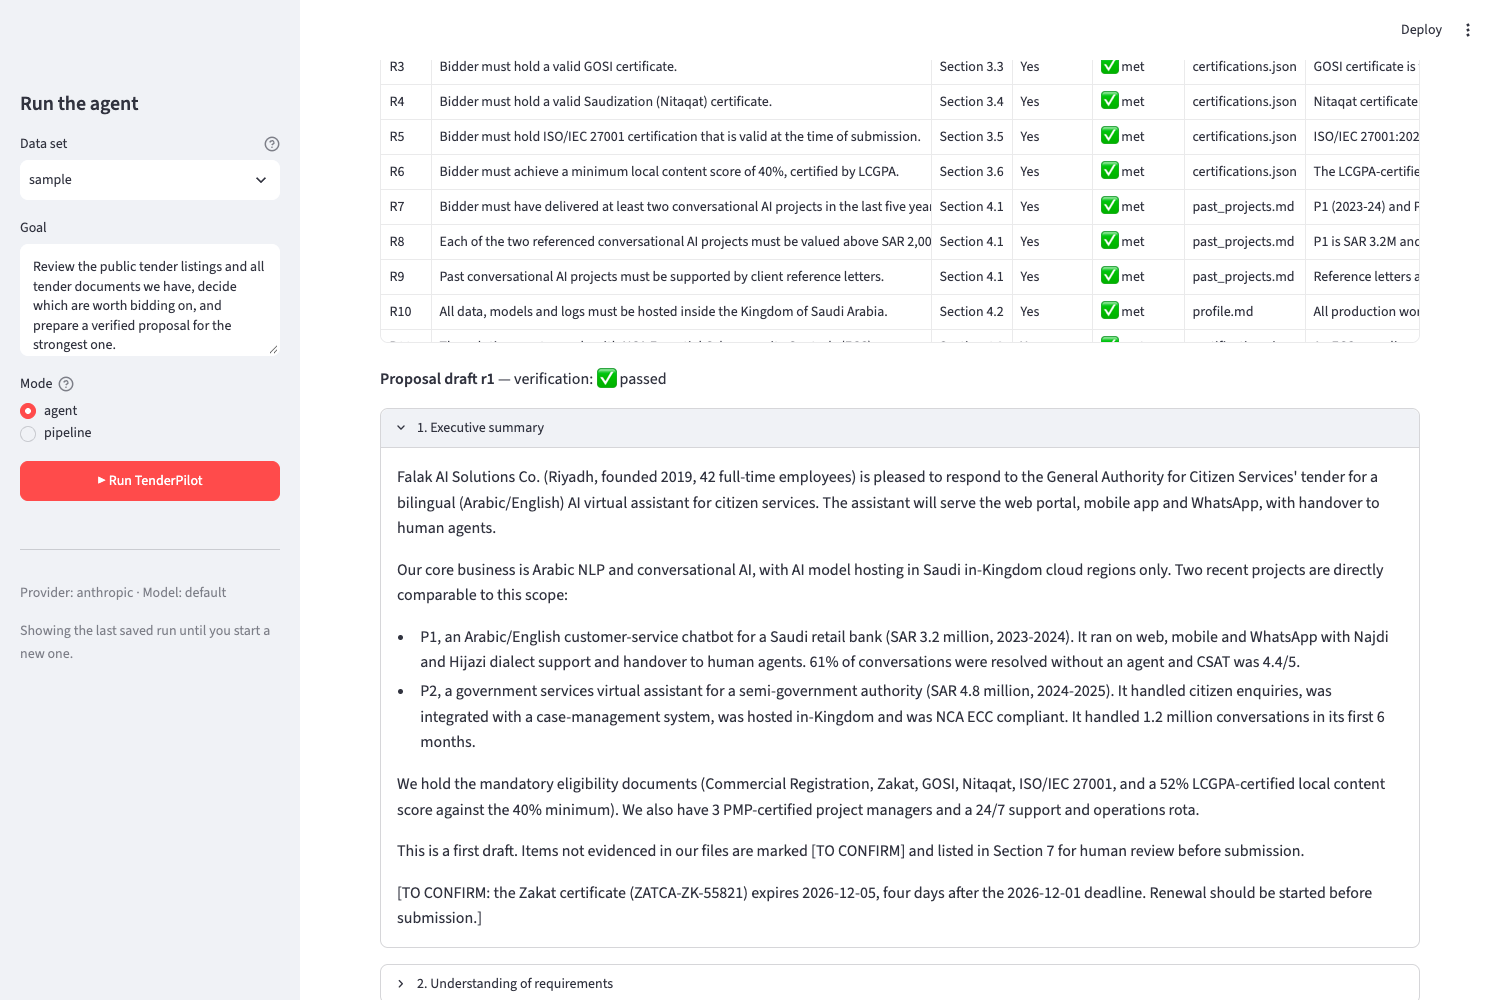
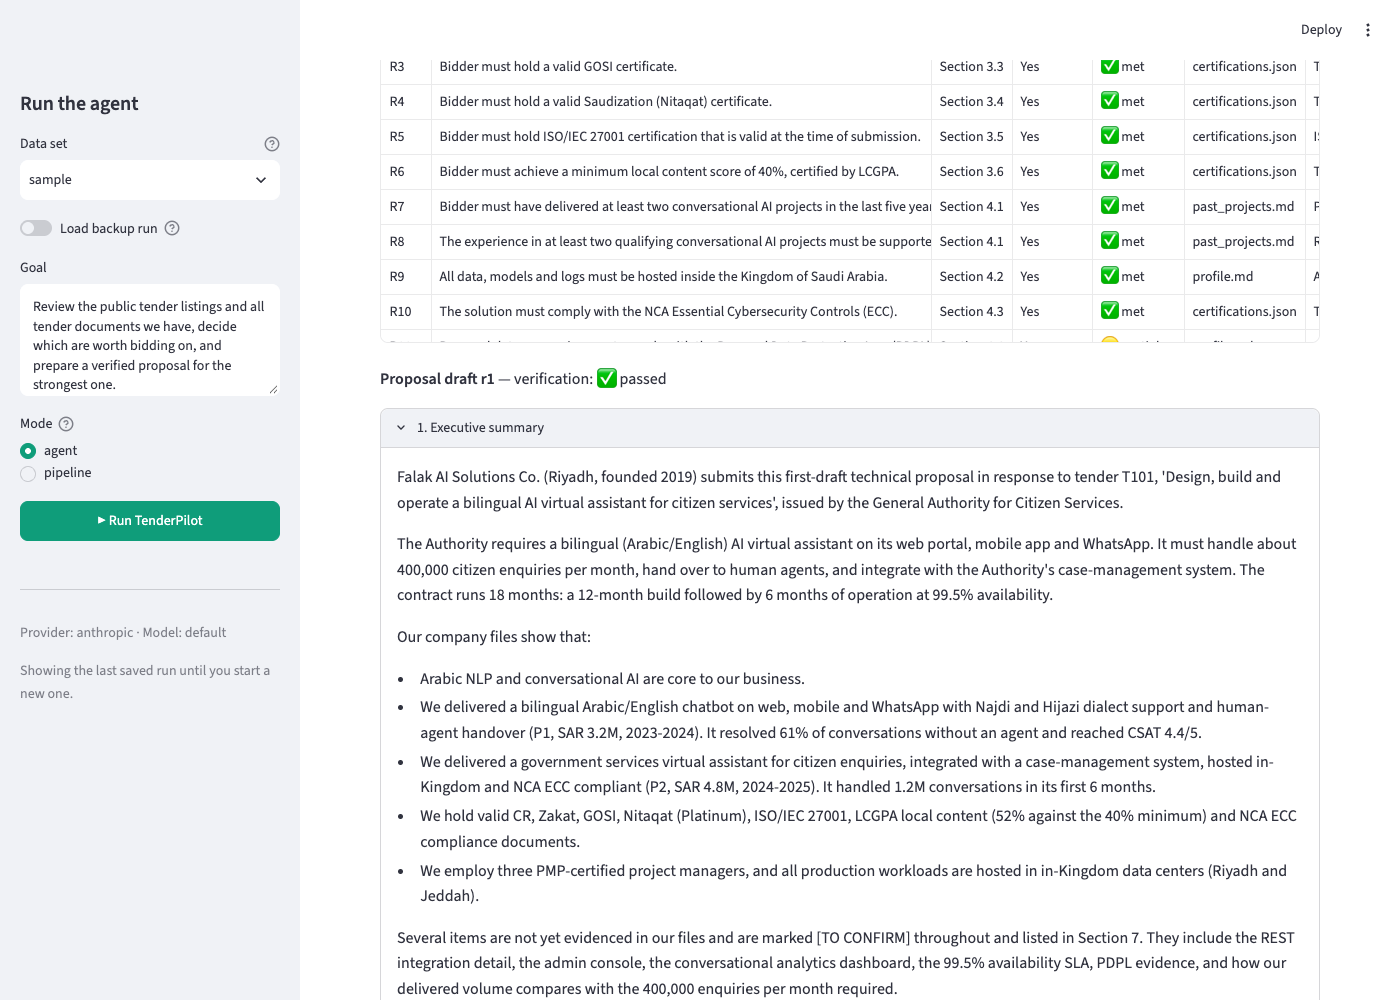
Short tender tabs, split bilingual issuer, retake teal screenshots
Detail tabs read 'T101 · 🟢 Bid' (full ID only if two tenders share a
prefix). A bilingual issuer is split like the title: English in the
info line, Arabic in the right-to-left block. README screenshots now
show the teal theme.

diff --git a/app.py b/app.py
@@ -216,17 +216,23 @@ if results["human_questions"]:
 
 # ---------------------------------------------------------------- per tender
 st.subheader("Tender details")
-tabs = st.tabs([r["tender_id"] for r in results["ranking"]] + ["Audit log"])
+prefixes = [r["tender_id"].split("_")[0] for r in results["ranking"]]
+tab_ids = [p if prefixes.count(p) == 1 else r["tender_id"] for p, r in zip(prefixes, results["ranking"])]  # "T101"
+tabs = st.tabs([f"{t} · {DECISION_LABEL[r['decision']]}" for t, r in zip(tab_ids, results["ranking"])] + ["Audit log"])
 for tab, r in zip(tabs, results["ranking"]):
     tid = r["tender_id"]
     e, q = exts[tid], quals[tid]
     with tab:
         st.markdown(f"### {english_part(e['title'])}")
-        if english_part(e["title"]) != e["title"] and arabic_part(e["title"]):  # bilingual: Arabic on its own RTL line
-            st.markdown(f'<div dir="rtl" style="font-size:1.25rem;margin:-0.5rem 0 0.5rem">{html.escape(arabic_part(e["title"]))}</div>',
-                        unsafe_allow_html=True)
+        # bilingual title/issuer: the Arabic goes on its own right-to-left lines instead of mixing into the English
+        ar_title = arabic_part(e["title"]) if english_part(e["title"]) != e["title"] else ""
+        ar_issuer = arabic_part(e["issuer"]) if english_part(e["issuer"]) != e["issuer"] else ""
+        if ar_title or ar_issuer:
+            st.markdown(f'<div dir="rtl" style="margin:-0.5rem 0 0.5rem"><div style="font-size:1.25rem">{html.escape(ar_title)}</div>'
+                        f'<div style="opacity:0.7">{html.escape(ar_issuer)}</div></div>', unsafe_allow_html=True)
         value = f" · value **SAR {e['estimated_value_sar']:,.0f}**" if e.get("estimated_value_sar") else ""
-        st.markdown(f"*{e['issuer']}* · deadline **{e['deadline']}**{value} · {DECISION_LABEL[q['decision']]} (fit {q['fit_score']})")
+        st.markdown(f"*{english_part(e['issuer'])}* · deadline **{e['deadline']}**{value} · "
+                    f"{DECISION_LABEL[q['decision']]} (fit {q['fit_score']})")
         st.write(e["summary"])
         left, right = st.columns(2)
         left.markdown("**Why**\n" + "\n".join(f"- {x}" for x in q["reasons"]))
